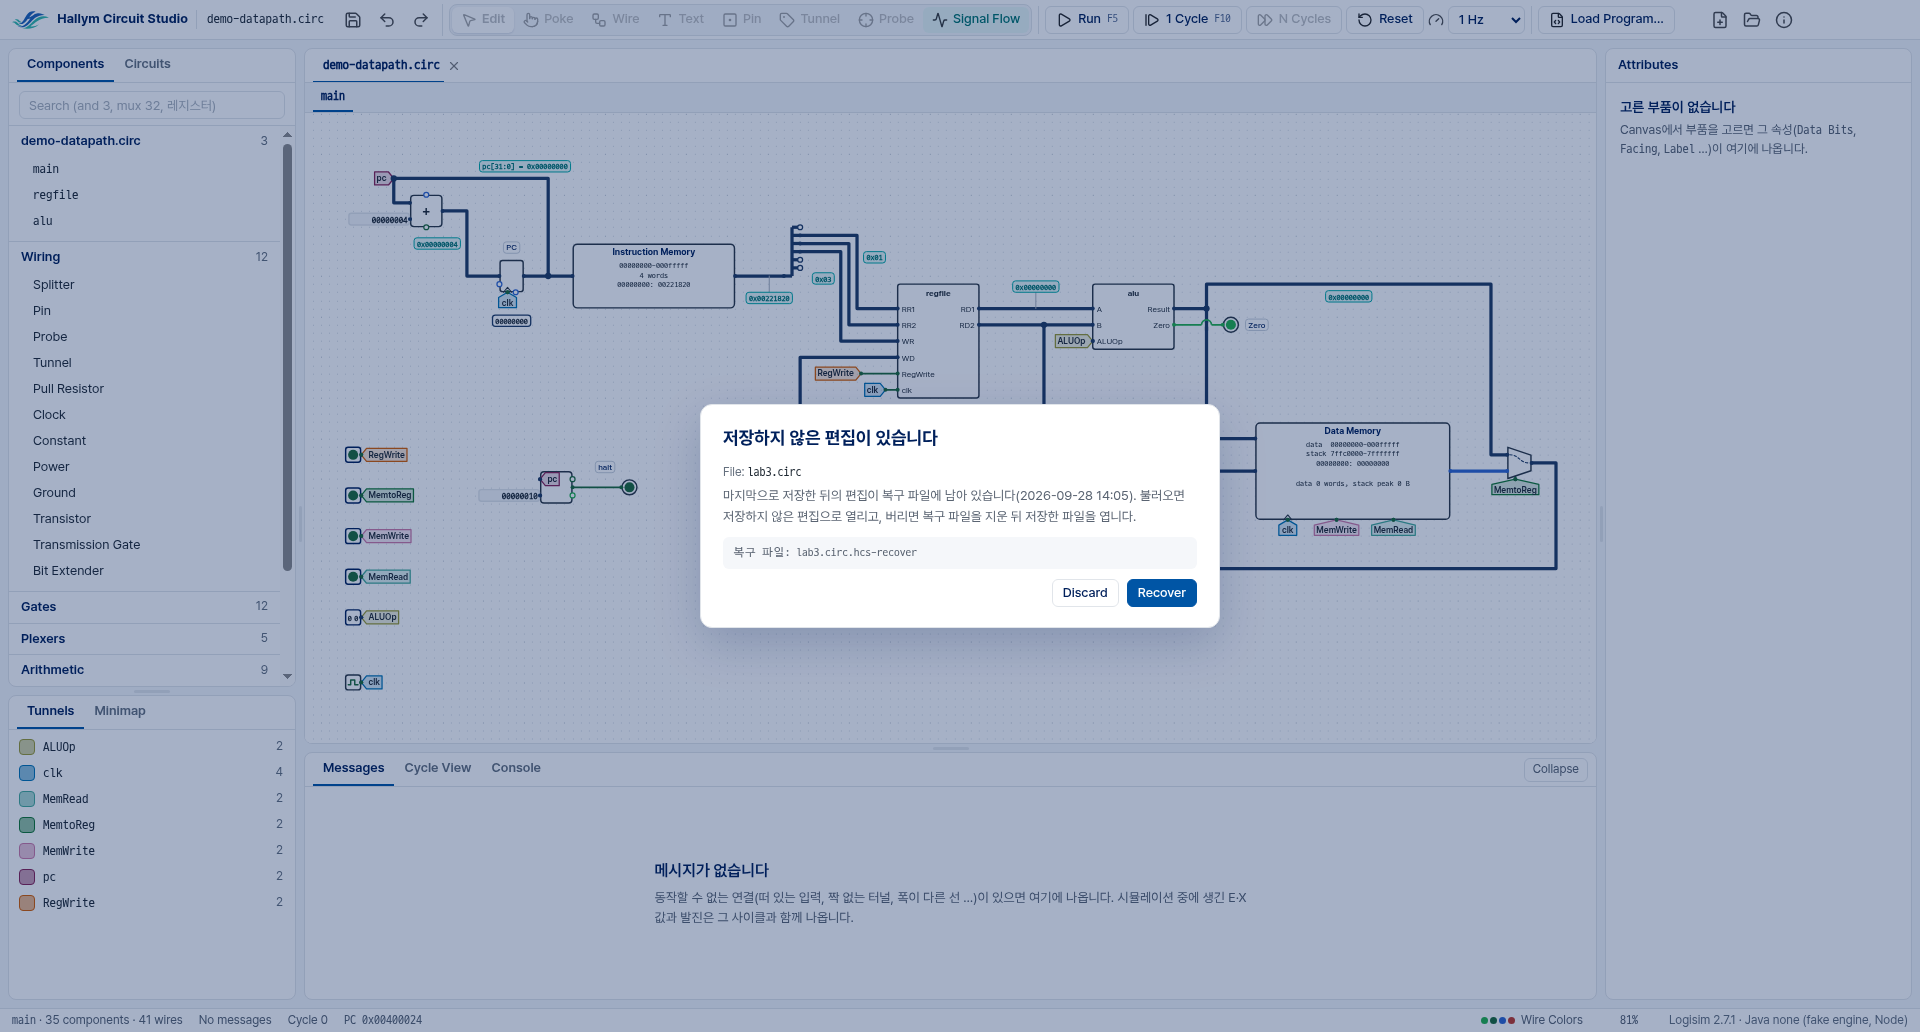
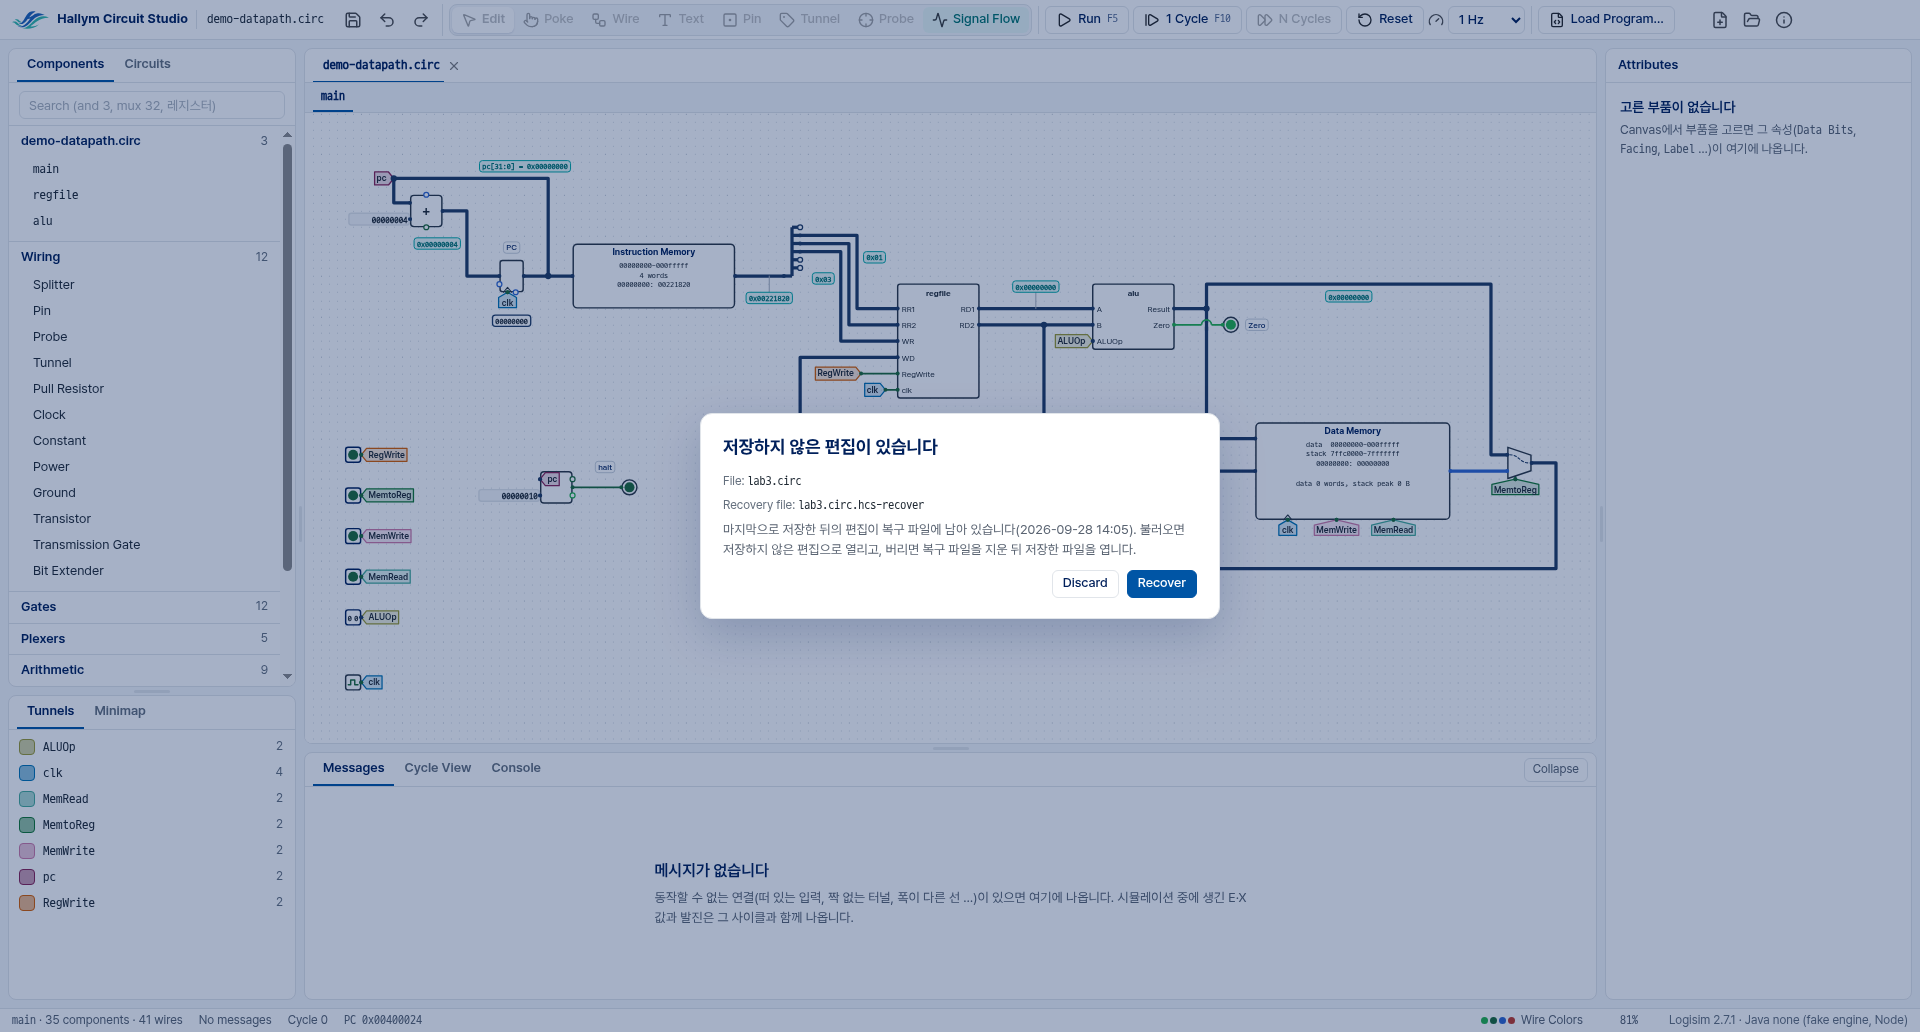
Retake recover-dialog.png with the Recovery file line; match the name lines in the e2e

Changed region(s): [[0.3438, 0.3721, 0.6562, 0.6202]]

diff --git a/electron/tests/e2e/recovery-file.e2e.ts b/electron/tests/e2e/recovery-file.e2e.ts
@@ -71,13 +71,12 @@ test('the app killed with unsaved edits: the recovery file beside the file, noth
     await openAgain(r.app, page, file);
     const dialog = page.locator('dialog.ask');
     await expect(dialog.locator('h2')).toHaveText(TITLE);
-    await expect(dialog.locator('.askfile')).toHaveText('File: gates.circ');
     const two = (n: number) => String(n).padStart(2, '0');
     const stamp = `${modified.getFullYear()}-${two(modified.getMonth() + 1)}-${two(modified.getDate())} ${two(modified.getHours())}:${two(modified.getMinutes())}`;
     // (the window keeps "다(" together: a word joiner, shared/dom.ts codeText)
     await expect(dialog).toContainText(`마지막으로 저장한 뒤의 편집이 복구 파일에 남아 있습니다\u2060(${stamp}).`);
     await expect(dialog.locator('.askfile')).toHaveText(['File: gates.circ', 'Recovery file: gates.circ.hcs-recover']);
-    await expect(dialog.locator('.askfile code')).toHaveText(['gates.circ', 'gates.circ.hcs-recover']);   // the names mono, the labels not
+    await expect(dialog.locator('.askfile .mono')).toHaveText(['gates.circ', 'gates.circ.hcs-recover']);   // the names mono, the labels not
     await expect(dialog.locator('.askdetail')).toHaveCount(0);
     await expect(dialog.getByRole('button')).toHaveText(['Discard', 'Recover']);
     expect(await visibleCharacters(page)).toBe(0);

diff --git a/electron/tests/e2e/real-engine.e2e.ts b/electron/tests/e2e/real-engine.e2e.ts
@@ -339,7 +339,7 @@ test('the real engine and the app killed (N-19): the recovery file beside the sa
     const dialog = next.page.locator('dialog.ask');
     await expect(dialog.locator('h2')).toHaveText('저장하지 않은 편집이 있습니다');
     await expect(dialog.locator('.askfile')).toHaveText(['File: demo-datapath.circ', 'Recovery file: demo-datapath.circ.hcs-recover']);
-    await expect(dialog.locator('.askfile code')).toHaveText(['demo-datapath.circ', 'demo-datapath.circ.hcs-recover']);   // the names mono, the labels not
+    await expect(dialog.locator('.askfile .mono')).toHaveText(['demo-datapath.circ', 'demo-datapath.circ.hcs-recover']);   // the names mono, the labels not
     await expect(dialog.locator('.askdetail')).toHaveCount(0);
     await dialog.getByRole('button', { name: 'Recover' }).click();
     await expect(next.page.locator('.filebar .ptab')).toHaveText(['demo-datapath.circ•']);
